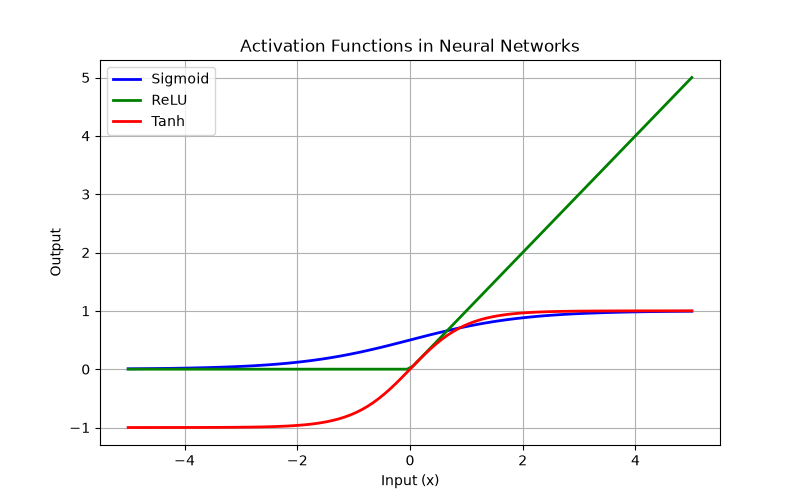
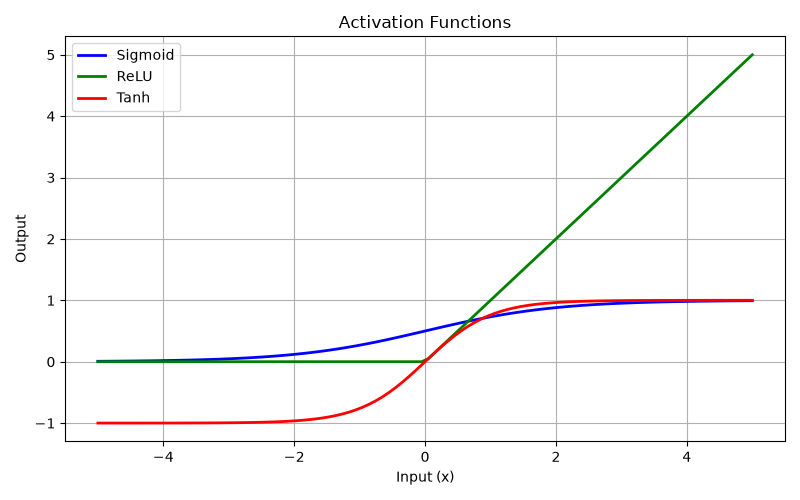
Fix ML practicals

diff --git a/practical_7.py b/practical_7.py
@@ -2,27 +2,23 @@
 # Discovers frequent itemsets and identifies outliers in dataset.
 
 import pandas as pd
+from itertools import combinations
 from sklearn.ensemble import IsolationForest
 
-# 1. Frequent Itemsets (Simple Apriori / Market Basket Analysis concept)
+# 1. Frequent Itemsets using a simple Apriori approach
 transactions = [
-    ['Milk', 'Bread', 'Butter'],
-    ['Bread', 'Butter'],
-    ['Milk', 'Bread'],
-    ['Milk', 'Butter'],
-    ['Bread', 'Butter']
+    ['Milk', 'Bread', 'Butter'], ['Bread', 'Butter'],
+    ['Milk', 'Bread'], ['Milk', 'Butter'], ['Bread', 'Butter']
 ]
+min_support = 2
+items = sorted({item for trans in transactions for item in trans})
 
-# Calculate item frequencies (Support)
-item_counts = {}
-for trans in transactions:
-    for item in trans:
-        item_counts[item] = item_counts.get(item, 0) + 1
-
-print("Frequent Item Support Counts:")
-for item, count in item_counts.items():
-    if count >= 2:  # Min support threshold
-        print(f"- {item}: {count}")
+print("Frequent Itemsets:")
+for size in range(1, len(items) + 1):
+    for itemset in combinations(items, size):
+        support = sum(set(itemset).issubset(trans) for trans in transactions)
+        if support >= min_support:
+            print(f"- {itemset}: support = {support}")
 
 # 2. Outlier Detection using Isolation Forest
 # Dataset with normal values around 2.0 and an extreme outlier (20.0)

diff --git a/practical_8.py b/practical_8.py
@@ -17,10 +17,11 @@ plt.figure(figsize=(8, 5))
 plt.plot(x, sigmoid, label="Sigmoid", color="blue", linewidth=2)
 plt.plot(x, relu, label="ReLU", color="green", linewidth=2)
 plt.plot(x, tanh, label="Tanh", color="red", linewidth=2)
-plt.titl("Input (x)")
-plt.ylabele("Activation Functions in Neural Networks")
-plt.xlabel("Output")
+plt.title("Activation Functions")
+plt.xlabel("Input (x)")
+plt.ylabel("Output")
 plt.legend()
 plt.grid(True)
+plt.tight_layout()
 plt.savefig("activation_functions.png")
 print("Activation functions plot saved as 'activation_functions.png'.")

diff --git a/practical_1.py b/practical_1.py
@@ -20,7 +20,10 @@ print("Original Dataset:\n", df)
 imputer = SimpleImputer(strategy='mean')
 df[['Age', 'Salary']] = imputer.fit_transform(df[['Age', 'Salary']])
 
-# 3. Feature Encoding: Convert categorical text to numeric values
+# 3. Data Transformation: express salary in thousands
+df['Salary'] = df['Salary'] / 1000
+
+# 4. Feature Encoding: Convert categorical text to numeric values
 df['City'] = LabelEncoder().fit_transform(df['City'])
 df['Purchased'] = LabelEncoder().fit_transform(df['Purchased'])
 print("\nEncoded Dataset:\n", df)

diff --git a/practical_4.py b/practical_4.py
@@ -20,9 +20,9 @@ vectorizer = CountVectorizer()
 X = vectorizer.fit_transform(emails)
 
 # 3. Train-test split
-X_train, X_test, y_train, y_test = train_test_split(X, X, test_size=0.25, random_state=42) # Wait, let's fix X, y split properly!
-# Correction:
-X_train, X_test, y_train, y_test = train_test_split(X, labels, test_size=0.25, random_state=42)
+X_train, X_test, y_train, y_test = train_test_split(
+    X, labels, test_size=0.25, random_state=42, stratify=labels
+)
 
 # 4. Train Naïve Bayes model
 model = MultinomialNB()

diff --git a/practical_3.py b/practical_3.py
@@ -14,7 +14,7 @@ X, y = data.data, data.target
 X_train, X_test, y_train, y_test = train_test_split(X, y, test_size=0.2, random_state=42)
 
 # 3. Initialize and train Logistic Regression model
-model = LogisticRegression(max_iter=200)
+model = LogisticRegression(solver='liblinear', max_iter=200)
 model.fit(X_train, y_train)
 
 # 4. Predict and evaluate
